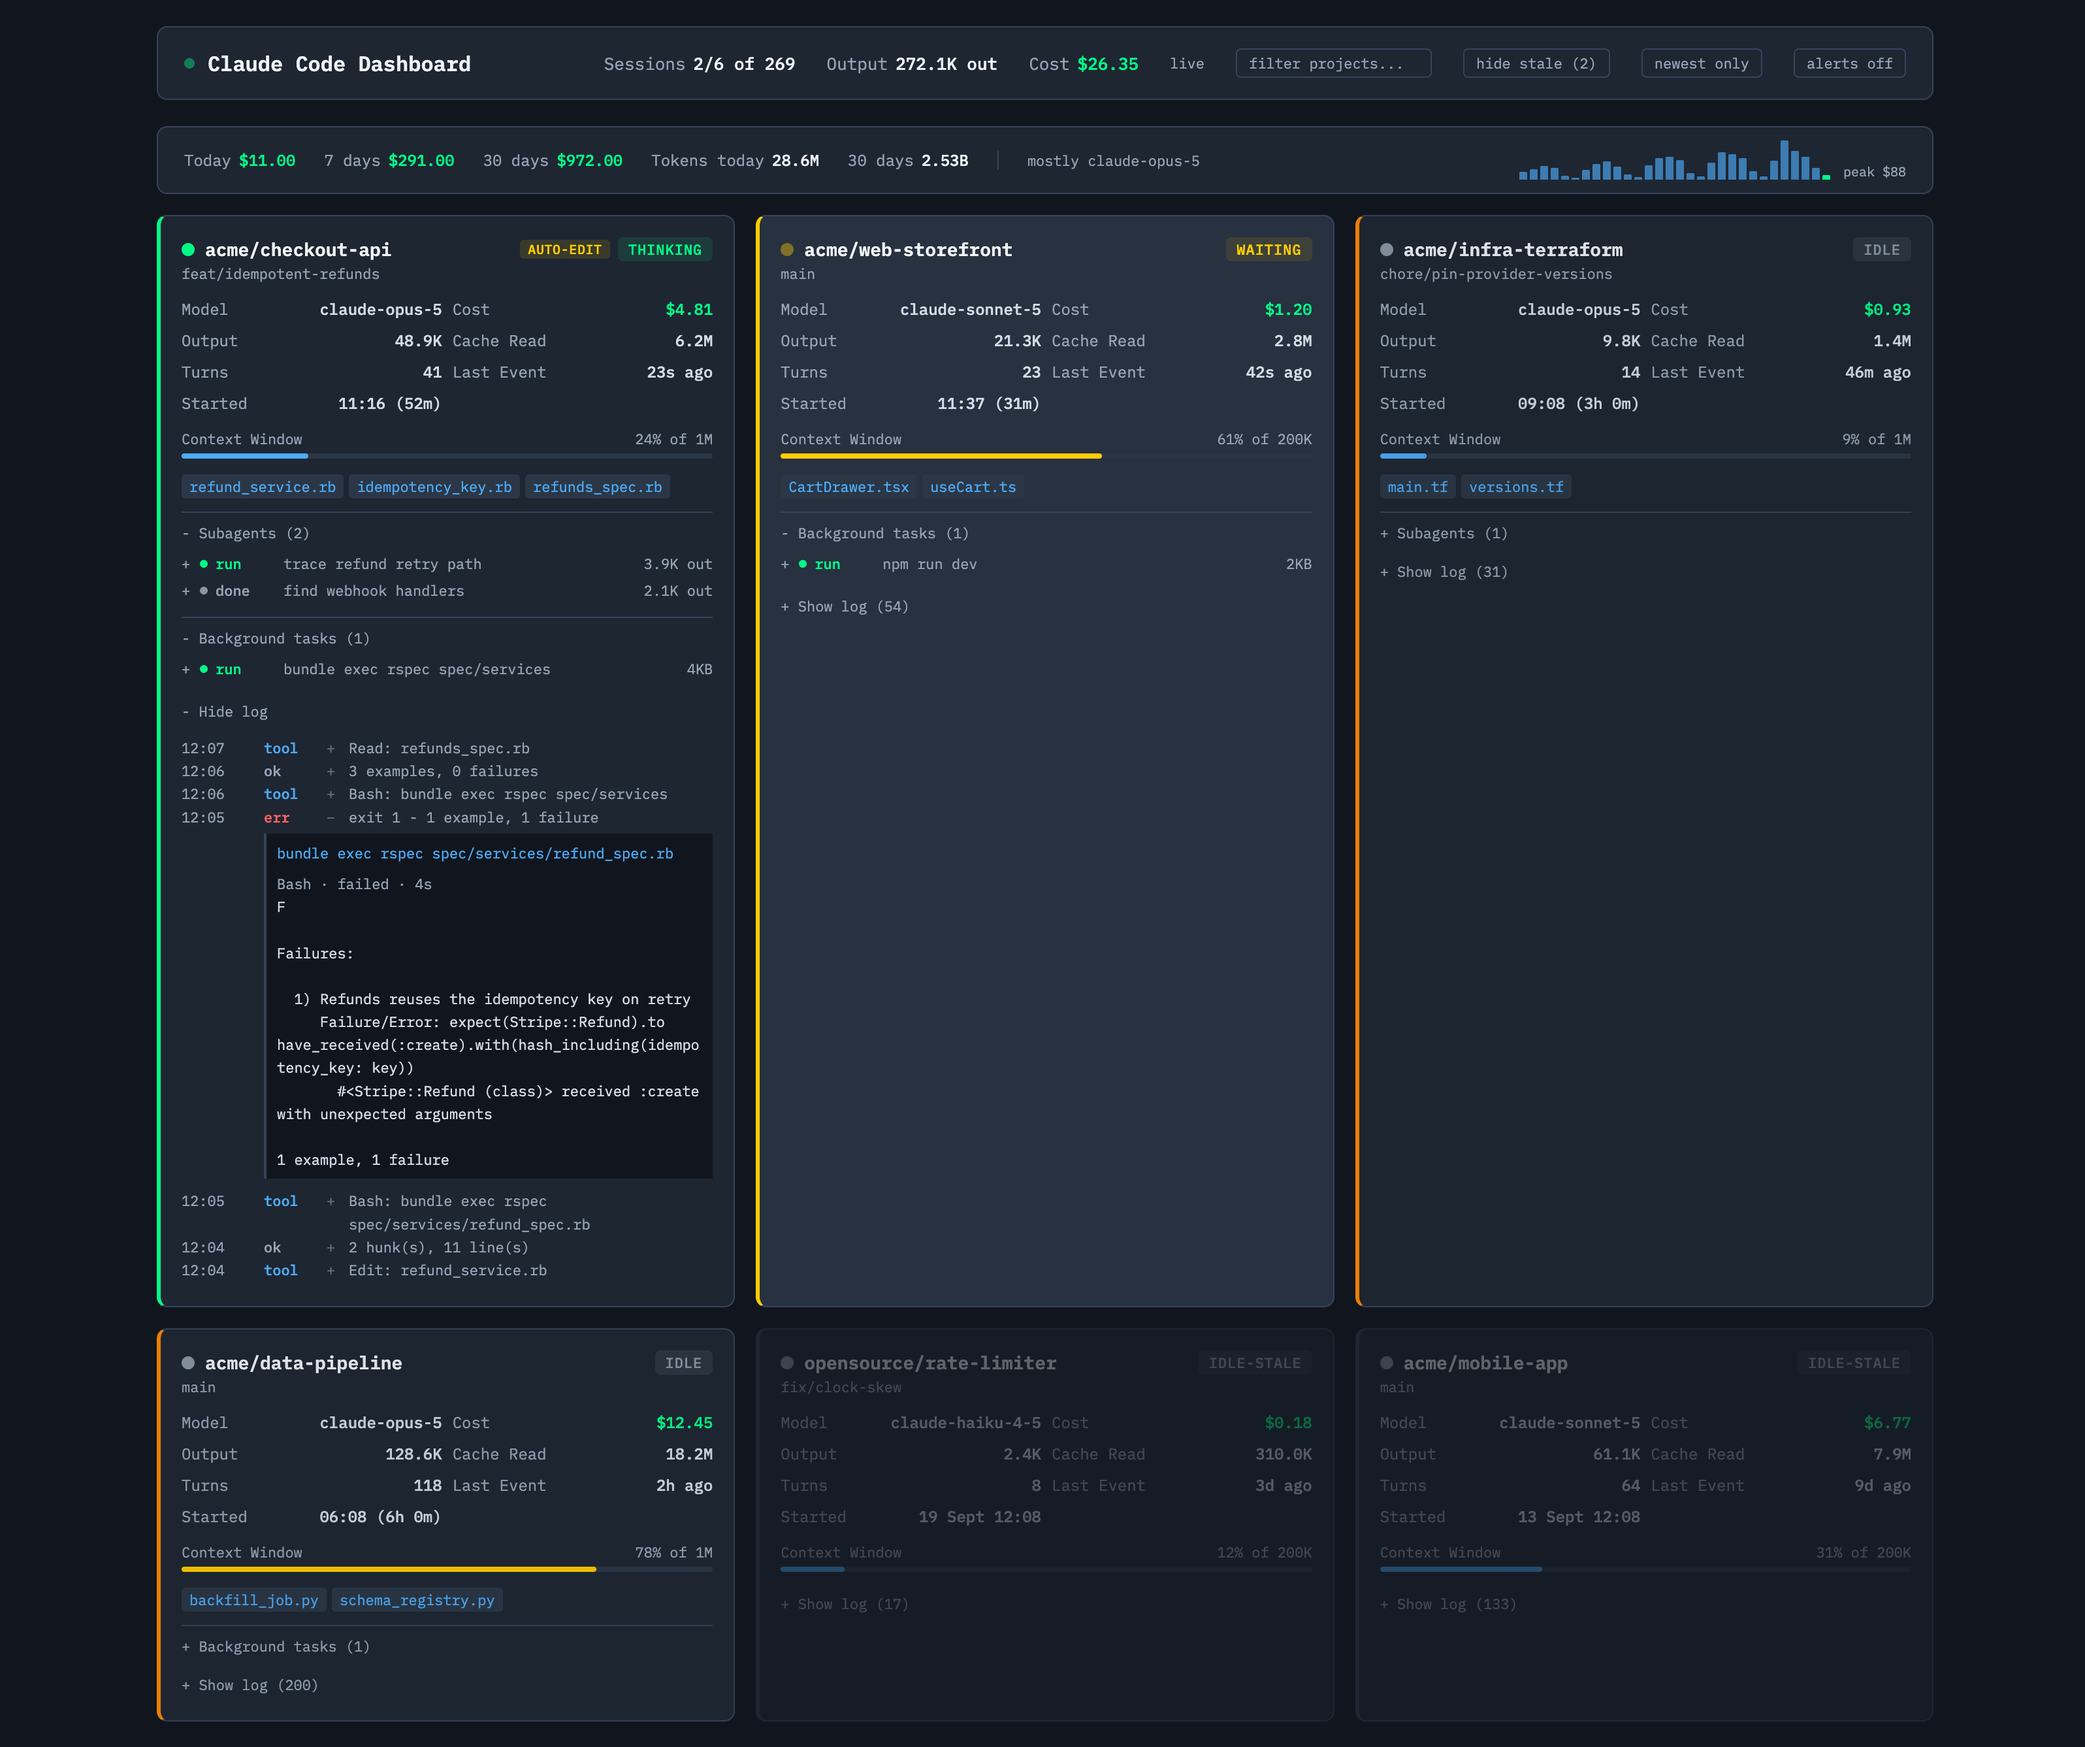
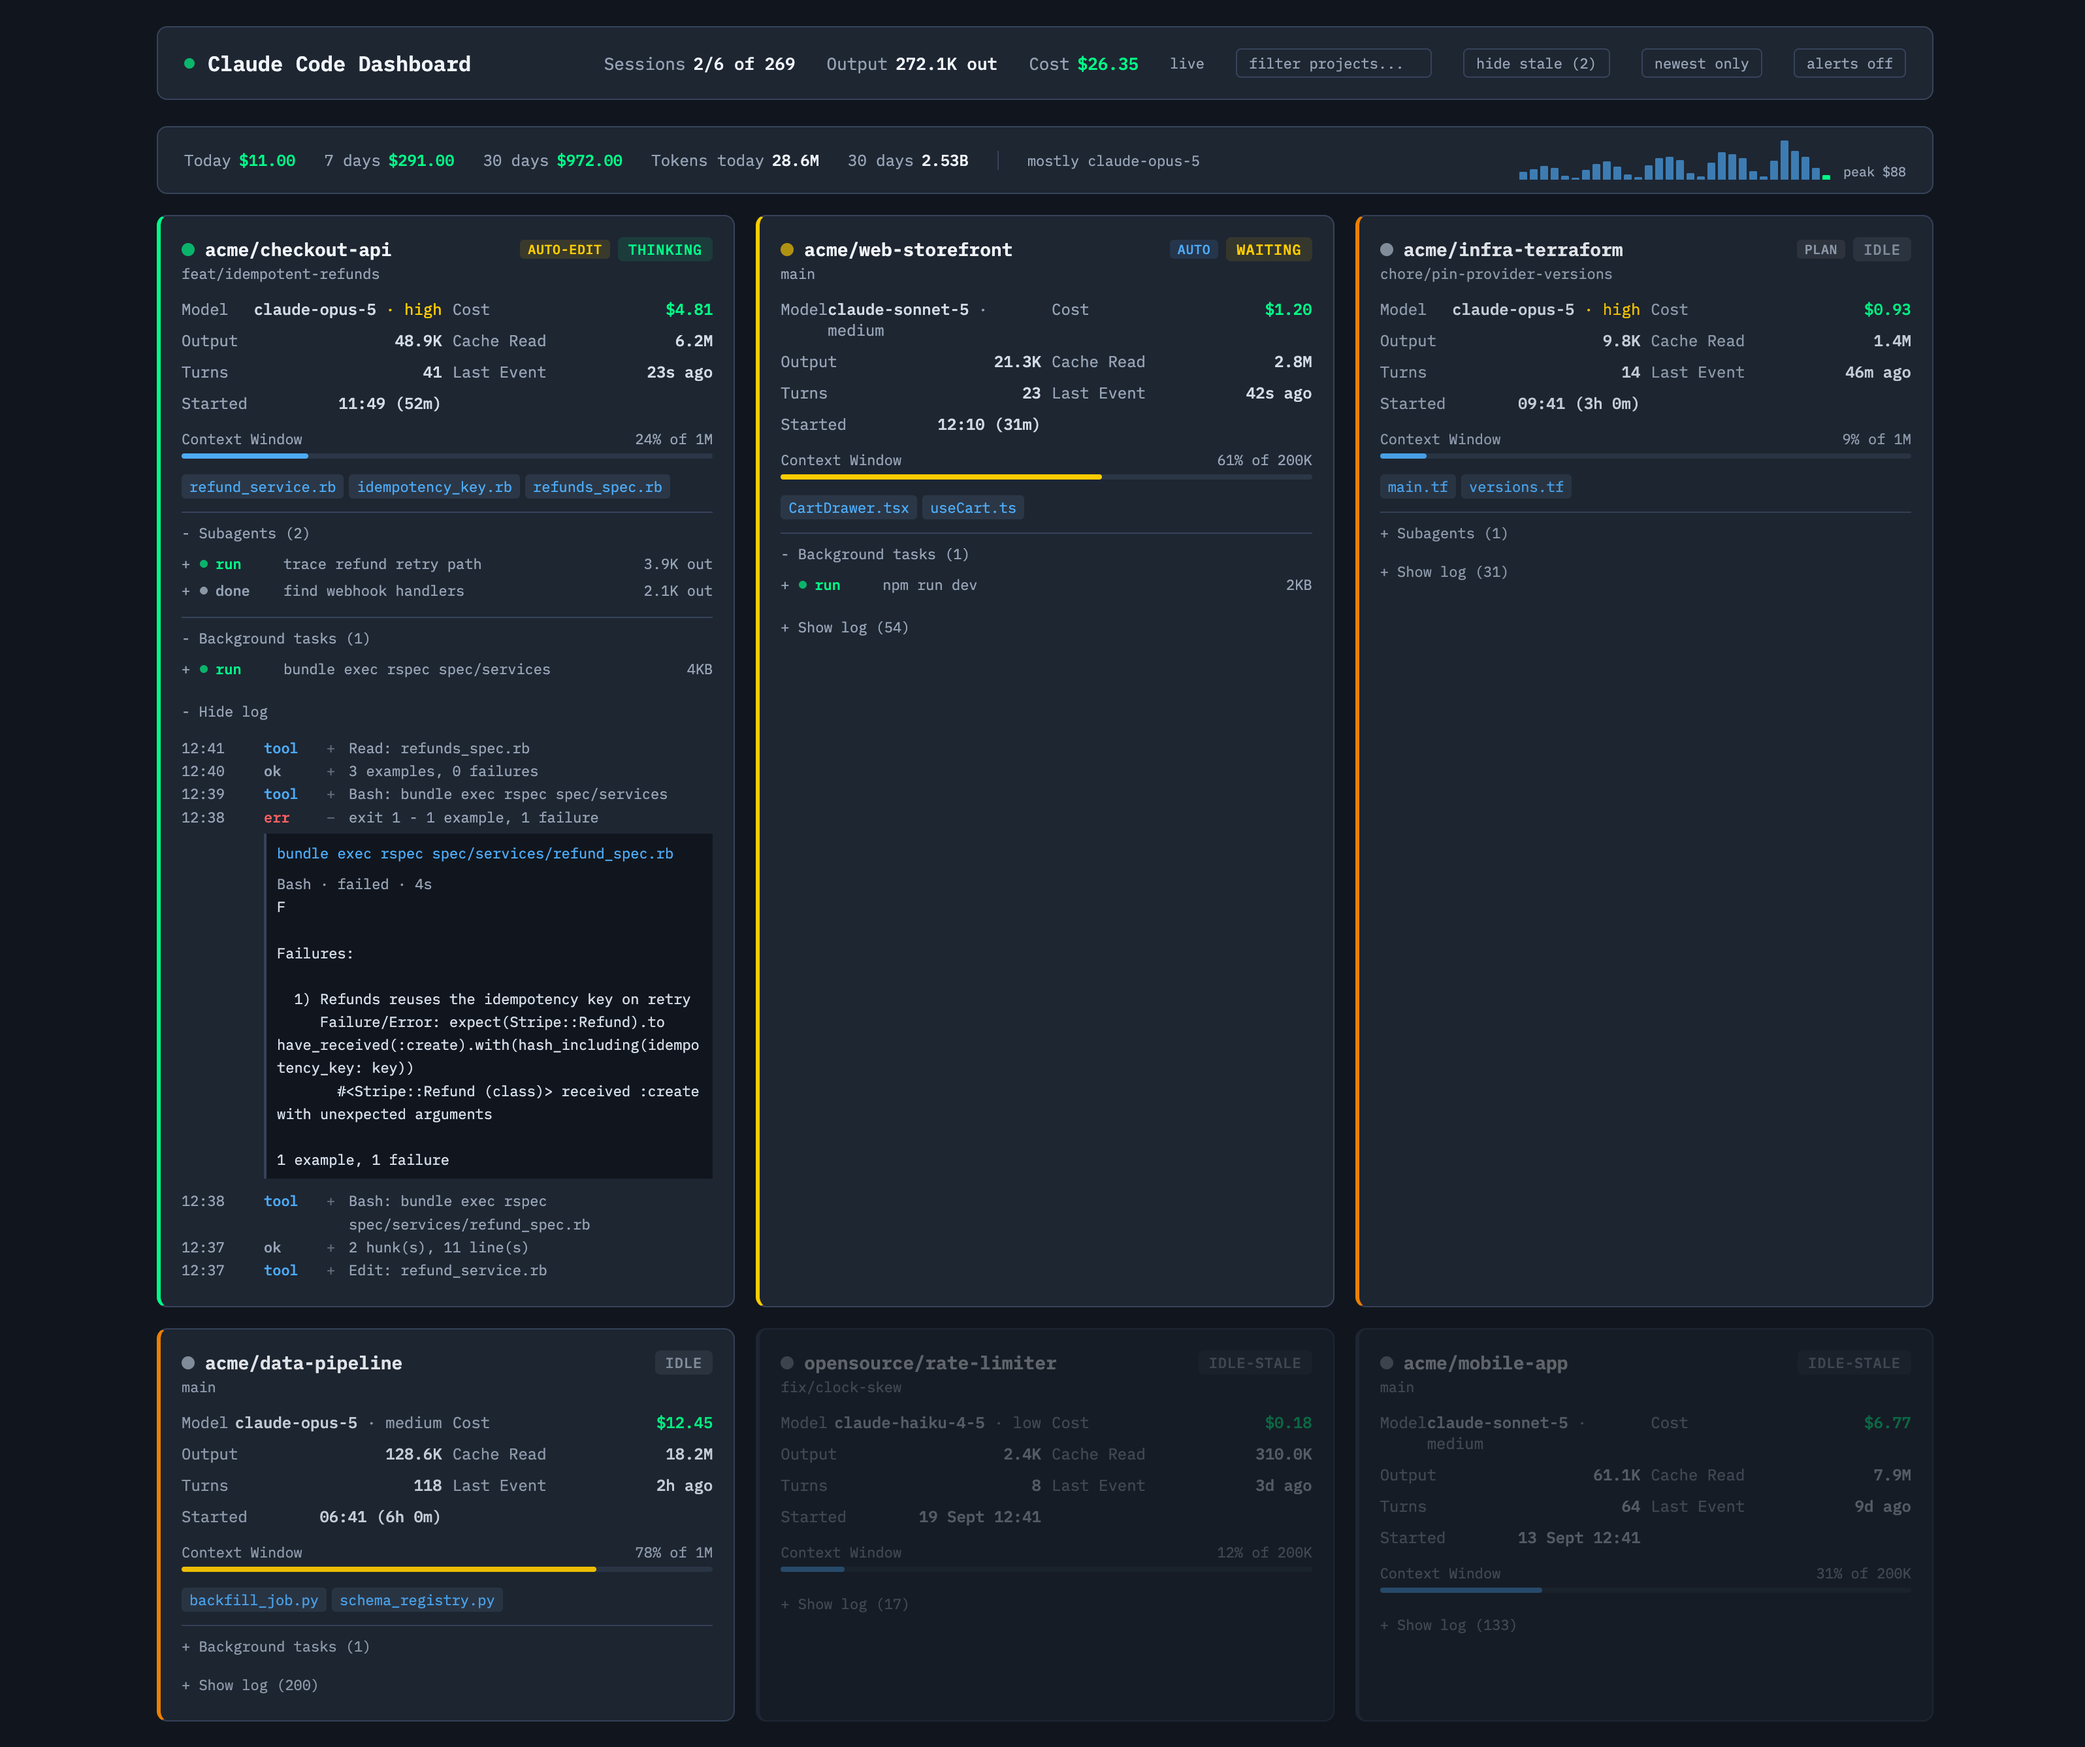
Show reasoning effort, and badge the permission modes that exist
Both were already in the log and neither reached the card.

`effort` rides on every assistant event as low/medium/high, with
`perTurnEffort` beside it as a single-turn override that is null unless
set. It now reads next to the model, which is what it belongs to.

The permission badge is the older miss. It only ever matched
bypassPermissions and acceptEdits, so a session in `auto` or `plan` -
which is nearly all of them here, 633 of 635 sampled events - fell
through and showed nothing. Output mode gets a badge too, hidden while it
is `normal` so the common case stays quiet.

Both `mode` and `permission-mode` arrive as their own events with three
keys and no timestamp, so processEvent dropped them at the timestamp
guard and permissionMode was only ever picked up incidentally as a field
on a user turn. They are now handled above that guard, and deliberately
do not touch lastEventAt: a settings change is not activity and must not
make an idle session look busy.

Demo fixture carries all three so the screenshot shows them, with the
effort values spread across low, medium and high.

Claude-Session: https://claude.ai/code/session_01EvQQCyByDtyWJFQ2WQu6jQ

diff --git a/public/index.html b/public/index.html
@@ -150,6 +150,16 @@
     }
     .perm-badge.bypass { color: var(--red); background: rgba(255,68,68,0.15); }
     .perm-badge.accept-edits { color: var(--yellow); background: rgba(255,204,0,0.12); }
+    .perm-badge.auto { color: var(--blue); background: rgba(90,160,255,0.12); }
+    .perm-badge.plan { color: var(--text-dim); background: rgba(255,255,255,0.07); }
+    .perm-badge.mode { color: var(--text-dim); background: rgba(255,255,255,0.07); }
+    /* Reasoning effort sits with the model, since that is what it belongs to.
+       Shown as a word, never colour alone. */
+    .effort {
+      color: var(--text-dim);
+      font-weight: 400;
+    }
+    .effort.high { color: var(--yellow); }
 
     /* Subagents */
     .subagents {
@@ -569,6 +579,21 @@
       return new Date(iso).toLocaleTimeString('en-GB', { hour: '2-digit', minute: '2-digit' });
     }
 
+    // Permission mode badge. `auto` and `plan` are real values the watcher sees
+    // and were previously unlabelled, so those cards showed no badge at all.
+    const PERM_BADGES = {
+      bypassPermissions: ['bypass', 'YOLO'],
+      acceptEdits: ['accept-edits', 'AUTO-EDIT'],
+      auto: ['auto', 'AUTO'],
+      plan: ['plan', 'PLAN'],
+    };
+
+    function permissionBadge(mode) {
+      const hit = PERM_BADGES[mode];
+      if (!hit) return null;
+      return e('span', { className: 'perm-badge ' + hit[0], title: 'Permission mode: ' + mode }, hit[1]);
+    }
+
     function formatDuration(ms) {
       if (!ms || ms < 0) return '';
       const secs = Math.round(ms / 1000);
@@ -850,11 +875,10 @@
             session.gitBranch ? e('div', { className: 'git-branch' }, session.gitBranch) : null
           ),
           e('div', { style: { display: 'flex', gap: '6px', alignItems: 'center' } },
-            session.permissionMode === 'bypassPermissions'
-              ? e('span', { className: 'perm-badge bypass' }, 'YOLO')
-              : session.permissionMode === 'acceptEdits'
-              ? e('span', { className: 'perm-badge accept-edits' }, 'AUTO-EDIT')
+            session.mode && session.mode !== 'normal'
+              ? e('span', { className: 'perm-badge mode', title: 'Output mode' }, session.mode.toUpperCase())
               : null,
+            permissionBadge(session.permissionMode),
             e('span', { className: 'card-status ' + st }, st)
           )
         ),
@@ -863,7 +887,14 @@
         e('div', { className: 'card-meta' },
           e('div', { className: 'meta-item' },
             e('span', { className: 'meta-key' }, 'Model'),
-            e('span', { className: 'meta-val' }, session.model || '-')
+            e('span', { className: 'meta-val' },
+              session.model || '-',
+              // Effort is a property of the model, so it reads beside it.
+              session.effort
+                ? e('span', { className: 'effort ' + session.effort, title: 'Reasoning effort' },
+                    ' · ' + session.effort)
+                : null
+            )
           ),
           e('div', { className: 'meta-item' },
             e('span', { className: 'meta-key' }, 'Cost'),

diff --git a/watcher.js b/watcher.js
@@ -309,6 +309,8 @@ function getOrCreateSession(sessionId) {
       lastTurnInputTotal: 0, // input + cache for context window estimate
       maxInputSeen: 0, // highest lastTurnInputTotal seen, for context-tier inference
       permissionMode: '',
+      effort: '', // reasoning effort, from the assistant event: low | medium | high
+      mode: '', // output mode, from its own `mode` event
       version: '',
       subagents: {}, // agentId -> see the subagent block in processEvent
       taskNames: {}, // background task id -> human name, see noteTaskNotification
@@ -475,6 +477,17 @@ function processEvent(event, projectHash) {
   }
   if (event.type === 'file-history-snapshot' || event.type === 'last-prompt') return;
 
+  // Settings events carry no timestamp and are not activity, so they are
+  // handled before the timestamp guard below and must not touch lastEventAt.
+  // `permission-mode` is the authoritative record of a mid-session change;
+  // without this the value only ever arrived as a field on a user turn.
+  if (event.type === 'mode' || event.type === 'permission-mode') {
+    const s = getOrCreateSession(event.sessionId);
+    if (event.mode) s.mode = event.mode;
+    if (event.permissionMode) s.permissionMode = event.permissionMode;
+    return;
+  }
+
   const session = getOrCreateSession(event.sessionId);
   if (!event.timestamp) return; // skip events without timestamps
   const ts = event.timestamp;
@@ -494,6 +507,12 @@ function processEvent(event, projectHash) {
   }
   if (event.version) session.version = event.version;
   if (event.permissionMode) session.permissionMode = event.permissionMode;
+  // Reasoning effort rides on every assistant event. perTurnEffort is an
+  // override for one turn and is null unless it was actually set, so the
+  // session-level value is the fallback rather than the other way round.
+  if (event.effort || event.perTurnEffort) {
+    session.effort = event.perTurnEffort || event.effort;
+  }
 
   const msg = event.message || {};
   const content = msg.content;

diff --git a/demo.js b/demo.js
@@ -23,6 +23,8 @@ const SESSIONS = [
     projectPath: '/home/dev/acme/checkout-api',
     gitBranch: 'feat/idempotent-refunds',
     permissionMode: 'acceptEdits',
+    effort: 'high',
+    mode: 'normal',
     model: 'claude-opus-5',
     status: 'thinking',
     costUSD: 4.8123,
@@ -79,7 +81,9 @@ const SESSIONS = [
     label: 'acme/web-storefront',
     projectPath: '/home/dev/acme/web-storefront',
     gitBranch: 'main',
-    permissionMode: 'default',
+    permissionMode: 'auto',
+    effort: 'medium',
+    mode: 'normal',
     model: 'claude-sonnet-5',
     status: 'waiting',
     costUSD: 1.2044,
@@ -112,6 +116,8 @@ const SESSIONS = [
     projectPath: '/home/dev/acme/infra-terraform',
     gitBranch: 'chore/pin-provider-versions',
     permissionMode: 'plan',
+    effort: 'high',
+    mode: 'normal',
     model: 'claude-opus-5',
     status: 'idle',
     costUSD: 0.9312,
@@ -147,6 +153,8 @@ const SESSIONS = [
     projectPath: '/home/dev/acme/data-pipeline',
     gitBranch: 'main',
     permissionMode: 'default',
+    effort: 'medium',
+    mode: 'normal',
     model: 'claude-opus-5',
     status: 'idle',
     costUSD: 12.4471,
@@ -179,6 +187,8 @@ const SESSIONS = [
     projectPath: '/home/dev/opensource/rate-limiter',
     gitBranch: 'fix/clock-skew',
     permissionMode: 'default',
+    effort: 'low',
+    mode: 'normal',
     model: 'claude-haiku-4-5',
     status: 'idle-stale',
     costUSD: 0.1807,
@@ -201,6 +211,8 @@ const SESSIONS = [
     projectPath: '/home/dev/acme/mobile-app',
     gitBranch: 'main',
     permissionMode: 'default',
+    effort: 'medium',
+    mode: 'normal',
     model: 'claude-sonnet-5',
     status: 'idle-stale',
     costUSD: 6.7725,

diff --git a/README.md b/README.md
@@ -28,6 +28,9 @@ see which session is active.
 - **Status detection** — thinking (green), waiting (yellow), idle (orange), stale (dimmed).
   See [How status is decided](#how-status-is-decided)
 - **Session start time** — clock time plus elapsed, per card
+- **Reasoning effort** — `low` / `medium` / `high`, beside the model
+- **Permission mode badge** — `AUTO`, `AUTO-EDIT`, `PLAN`, `YOLO` — and the output mode
+  when it is not `normal`
 - **Desktop alerts** — notification and tab-title count when a session waits for you
 - **Project filter, hide-stale and show-all-sessions toggles** — all persist across reloads
 - **Connection health** — red dot and last-update age if the watcher stops responding
@@ -43,7 +46,7 @@ see which session is active.
   command, the pattern, the URL — and each tool call is followed by how it ended:
   `ok` with the first line of output, or `err` with the exit code and the error.
   **Click a row** for the full command and its output tail
-- **Click to open** a project folder, **git branch**, **permission mode badges**
+- **Click to open** a project folder, **git branch**
 - **Phone-friendly** — the header and the card grid reflow down to a phone screen
 - **Cross-platform** — Windows, macOS, and Linux
 
@@ -443,6 +446,10 @@ not know about subscription plans or quotas.
 - Subagent and background-task lists fold away, and open themselves while one is running
 - Header and card grid reflow for a phone screen
 - Costs read with two decimals and a thousands separator
+- Reasoning effort and output mode are shown; neither was read from the log before
+- Permission mode badges covered only `bypassPermissions` and `acceptEdits`, so a session
+  in `auto` or `plan` — the common cases — showed no badge at all. The dedicated
+  `permission-mode` event was dropped too, because it carries no timestamp
 - Status had a dead zone: `thinking` and `waiting` were only reachable under 15s, and
   `idle` was returned for everything from 15s to 60s. A session working through a
   60-second command read as idle, and `waiting` expired before you could see it

diff --git a/CLAUDE.md b/CLAUDE.md
@@ -73,6 +73,18 @@ Code changes.
 - **A running subagent cannot be named.** Nothing in its transcript points back to the
   call that launched it, so it is labelled by type until its finish notification arrives.
 - **`tool_result.content` is a string on most tools and an array of blocks on some.**
+- **Reasoning effort is `effort` on every assistant event** (`low`/`medium`/`high`).
+  `perTurnEffort` sits beside it as a single-turn override and is `null` unless set, so
+  it takes precedence only when present.
+- **Settings events carry no timestamp.** `{type: 'mode', mode, sessionId}` and
+  `{type: 'permission-mode', permissionMode, sessionId}` have three keys and nothing
+  else. They must be handled before the `!event.timestamp` guard, and must not touch
+  `lastEventAt` — they are settings, not activity.
+- **`permissionMode` values seen in practice are `auto` and `plan`**, not only the
+  `acceptEdits` / `bypassPermissions` the UI originally knew about.
+- **`attachment.identity.modelId` spells the context tier** (`claude-opus-5[1m]`). Rare
+  — 10 occurrences in a 10-session sample — so the tier inference still stands, but this
+  would be the direct signal if it turns out to be reliable.
 - **Tool output carries terminal colour escapes**, which reach the feed as literal
   `[90m` noise unless stripped.
 
